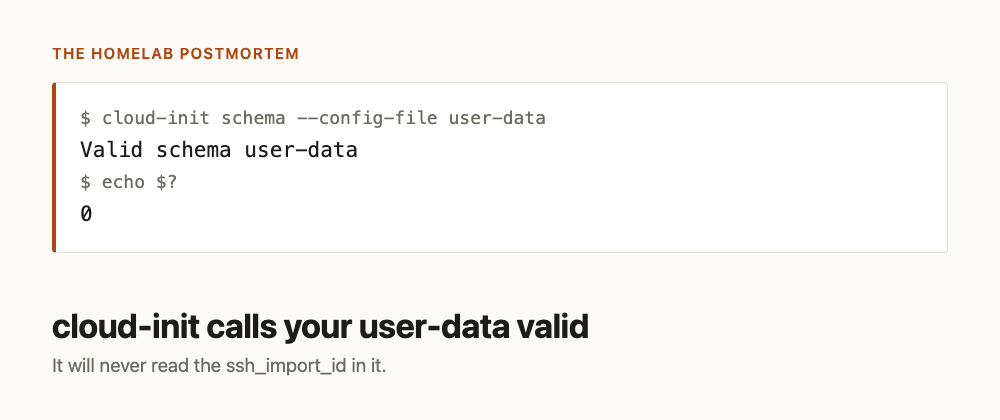
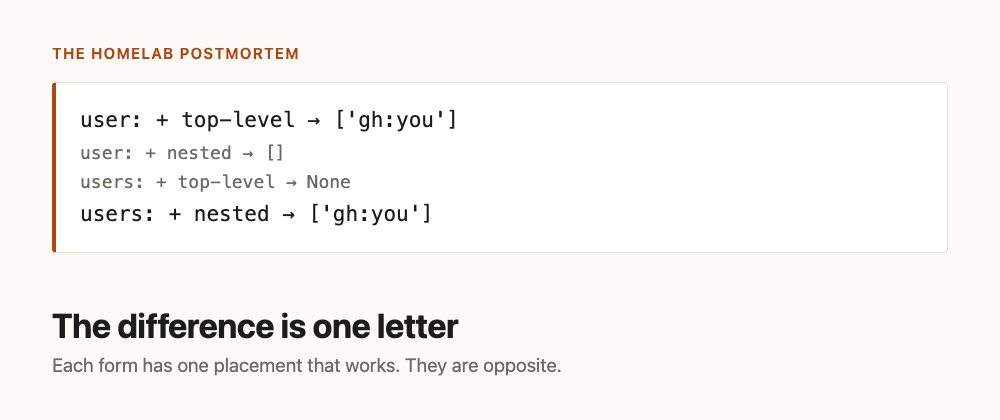
Correct the cloud-init post: the fix was backwards for Imager machines
Imager 2.0.11 writes user: (singular), which cloud-init treats as the default
user -- so the top-level key works there and nesting it, which the original
post recommended, silently breaks it. Verified all four combinations on a
freshly imaged Pi. Dated correction at the top, per the rpi-clone precedent.

diff --git a/_posts/2026-08-29-cloud-init-validates-the-key-it-never-reads.md b/_posts/2026-08-29-cloud-init-validates-the-key-it-never-reads.md
@@ -1,15 +1,26 @@
 ---
-title: "cloud-init calls your user-data valid. It will never read the ssh_import_id in it."
+title: "The same ssh_import_id works in one cloud-init file and does nothing in the next. The difference is one letter."
 date: 2026-08-29
-excerpt: "Raspberry Pi Imager 2.0 provisions with cloud-init, and Raspberry Pi's own example creates a named user. A top-level ssh_import_id next to it passes schema validation, runs, and does nothing — because that key is only read for a user marked default, and an Imager-created user never is."
+excerpt: "A top-level ssh_import_id is read only for a user marked default, and a nested one only for a user that is not. Raspberry Pi's documented users: example and Imager's generated user: block sit on opposite sides of that line, so the placement that works on one silently does nothing on the other."
 devto_tags: raspberrypi, linux, devops, sysadmin
 ---
 
-**TL;DR**: On Raspberry Pi OS with cloud-init, a top-level `ssh_import_id:` in your `user-data` is only ever read for a user marked `default`. Raspberry Pi's own documented example creates a named user, which is not default, so the key is silently skipped — logged at `debug`, never at warning. `cloud-init schema` validates the file as correct, the `ssh_authorized_keys` you put next to it works fine, and the imported keys never arrive. On a headless box the first symptom is that you cannot log in with the key you expected.
+**Correction (2026-08-29, same day)**: the original version of this post said an
+Imager-created user is never the default user, and told you to nest
+`ssh_import_id` under the user. **That is wrong for a machine provisioned by
+Raspberry Pi Imager, and following it will break a working setup.** Imager
+2.0.11 writes `user:` (singular), which cloud-init *does* treat as the default
+user — so on an Imager-provisioned Pi the top-level key is the one that works
+and the nested one is silently dropped. The two forms are exactly opposite, and
+the post below has been rewritten around that. The mechanism it described is
+real; which side of it you are on is what the original got wrong. Verified on a
+freshly imaged Pi 4B, cloud-init 25.2.
+
+**TL;DR**: cloud-init reads a top-level `ssh_import_id:` **only** for a user marked `default`, and a nested one **only** for a user that is not. Each form therefore has exactly one placement that works, and they are opposite. Raspberry Pi Imager writes `user:` (singular) — that user is default, so the top-level key works and a nested one is dropped. Raspberry Pi's own documented example writes `users:` (a list) — that user is not default, so the nested key works and a top-level one is dropped. Either way the discarded key is logged at `debug`, `cloud-init schema` calls the file valid, and the `ssh_authorized_keys` beside it still works, so nothing tells you half your config was ignored.
 
 ## The symptom
 
-Raspberry Pi Imager 2.0 generates cloud-init configuration by default, and [Raspberry Pi's own announcement](https://www.raspberrypi.com/news/cloud-init-on-raspberry-pi-os/) shows this shape for creating your user:
+Raspberry Pi Imager 2.0 generates cloud-init configuration by default. If you write the file by hand instead, [Raspberry Pi's own announcement](https://www.raspberrypi.com/news/cloud-init-on-raspberry-pi-os/) shows this shape for creating your user — note `users:`, the list form, which is **not** what Imager itself writes:
 
 ```yaml
 users:
@@ -92,13 +103,27 @@ $ python3 -c "import cloudinit; print(cloudinit.version.version_string())"
 25.2
 ```
 
+Running all four combinations against the shipped cloud-init on a freshly imaged Pi:
+
 ```
-config placement   user   default   branch taken          import_ids
-top-level          pi     False     else (nested only)    None
-nested under user  pi     False     else (nested only)    ['gh:mitoyosh']
+config form               default   branch taken                import_ids
+user:  + top-level        True      default (reads top-level)   ['gh:mitoyosh']
+user:  + nested           True      default (reads top-level)   []
+users: + top-level        False     else (nested only)          None
+users: + nested           False     else (nested only)          ['gh:mitoyosh']
 ```
 
-Same user, same `default=False`, same cloud-init. The only difference is where the key sits. In the top-level case the module reaches `LOG.debug(...)` and `continue`s, and there is no other user for the top-level value to apply to.
+**Each form has exactly one placement that works, and they are opposite.** The
+`default` column is the whole story: `user:` (singular) declares the default
+user, so the module takes the branch that reads the *top-level* key and never
+looks at a nested one. `users:` (a list) creates ordinary users, so the module
+takes the branch that reads only the *nested* key.
+
+That matters because the two shapes come from two different places. **Raspberry
+Pi Imager 2.0.11 writes `user:`**, verified on the `user-data` it generated for
+this machine. **Raspberry Pi's own documentation shows `users:`.** Follow the
+docs by hand and you need the nested form; let Imager write it and you need the
+top-level form. Nothing anywhere tells you which one you have.
 
 Note the version: Raspberry Pi OS ships **25.2** here, from their own build (`25.2-1~bpo13+1+rpt20`), not the `25.1.4` that Debian Trixie carries. Check the box rather than the distro's package page — the behaviour above is what is actually installed.
 
@@ -113,20 +138,43 @@ There is an open PR, [#7050](https://github.com/canonical/cloud-init/pull/7050),
 
 > Merge both sources for the default user. A top-level `ssh_import_id` keeps working on its own, and **non-default users are unchanged**.
 
-That fixes a nested `ssh_import_id` being dropped *for the default user*. The case above — a top-level key with a non-default user — is explicitly left as it is. So merging that PR will not fix a Raspberry Pi Imager setup.
+That fixes the `user:` + nested combination — a nested `ssh_import_id` dropped for the default user, which is exactly
+what an Imager-provisioned machine hits if you move the key under the user. It leaves the other half alone: a top-level
+key with a non-default user, the `users:` case, is explicitly unchanged. So the PR closes one of the two holes and not
+the other, and which one matters to you depends on which form your `user-data` uses.
 
 There is also [a Raspberry Pi forum thread](https://forums.raspberrypi.com/viewtopic.php?p=2385229) asking exactly this question. It has no replies.
 
 ## The fix
 
-Nest it under the user, alongside `ssh_authorized_keys`:
+**Look at your `user-data` first, because the correct answer is the opposite of
+itself depending on what you find.** One line settles it:
+
+```bash
+grep -E '^users?:' /var/lib/cloud/instance/user-data.txt
+```
+
+**If it says `user:`** — which is what Raspberry Pi Imager writes — that user is
+the default user, and the key belongs at the top level, outside the user block:
+
+```yaml
+#cloud-config
+user:
+  name: pi
+  ssh_authorized_keys:
+    - ssh-ed25519 AAAAC3NzaC1lZDI1NTE5AAAAIExampleKeyMaterialHere
+ssh_import_id:
+  - gh:mitoyosh
+```
+
+**If it says `users:`** — the list form the documentation shows — that user is
+not the default, and the key belongs nested under it:
 
 ```yaml
 #cloud-config
 users:
   - name: pi
     groups: users,adm,sudo
-    shell: /bin/bash
     sudo: ALL=(ALL) NOPASSWD:ALL
     ssh_authorized_keys:
       - ssh-ed25519 AAAAC3NzaC1lZDI1NTE5AAAAIExampleKeyMaterialHere
@@ -134,7 +182,9 @@ users:
       - gh:mitoyosh
 ```
 
-Both keys are then in the branch that gets read, and both apply.
+Moving the key the wrong way is not a no-op: on an Imager-provisioned machine,
+nesting a `ssh_import_id` that currently works will stop it working, and
+nothing will tell you.
 
 Two things worth knowing before you rely on it. `ssh-import-id` must be installed or the module warns and stops — that one *is* at warning level, so it will show up. And the import needs working networking and reachable GitHub/Launchpad at first boot; if the machine comes up on WiFi that takes a moment, the keys can be a boot behind.
 
@@ -154,3 +204,12 @@ Schema validation answers "is this a well-formed document?" It cannot answer "wi
 So the habit is narrow: **a validator passing tells you the file parsed, not that the field is live on your path.** When a config option quietly does nothing, do not re-read the file looking for a typo — go find the code that consumes the key and check what it requires. Here it was one `if`.
 
 The wider one is about partial success. One SSH directive worked and one did not, and that is the shape that costs the most time, because working evidence is louder than absent evidence. You look at `authorized_keys`, see a key, and conclude the mechanism works — when what you have confirmed is that a *different* mechanism works. The same trap as [a WiFi profile that exists with the right SSID and no credentials](https://homelabpostmortem.com/2026/08/19/nmcli-abbreviation-ambiguity-trixie/): the thing you can see being right is not evidence about the thing you cannot.
+
+I fell into a version of that writing this. The mechanism was read correctly
+from the source, the failing case was reproduced, and the fix was tested — on
+the `users:` form, which is what the documentation shows. It never occurred to
+me to check what Imager actually writes, because I had verified so much else.
+Provisioning a machine with Imager hours later is what surfaced it, and the
+advice I had published would have broken that machine. **Reading the code tells
+you what the branches are. It does not tell you which branch your machine is
+on.**
